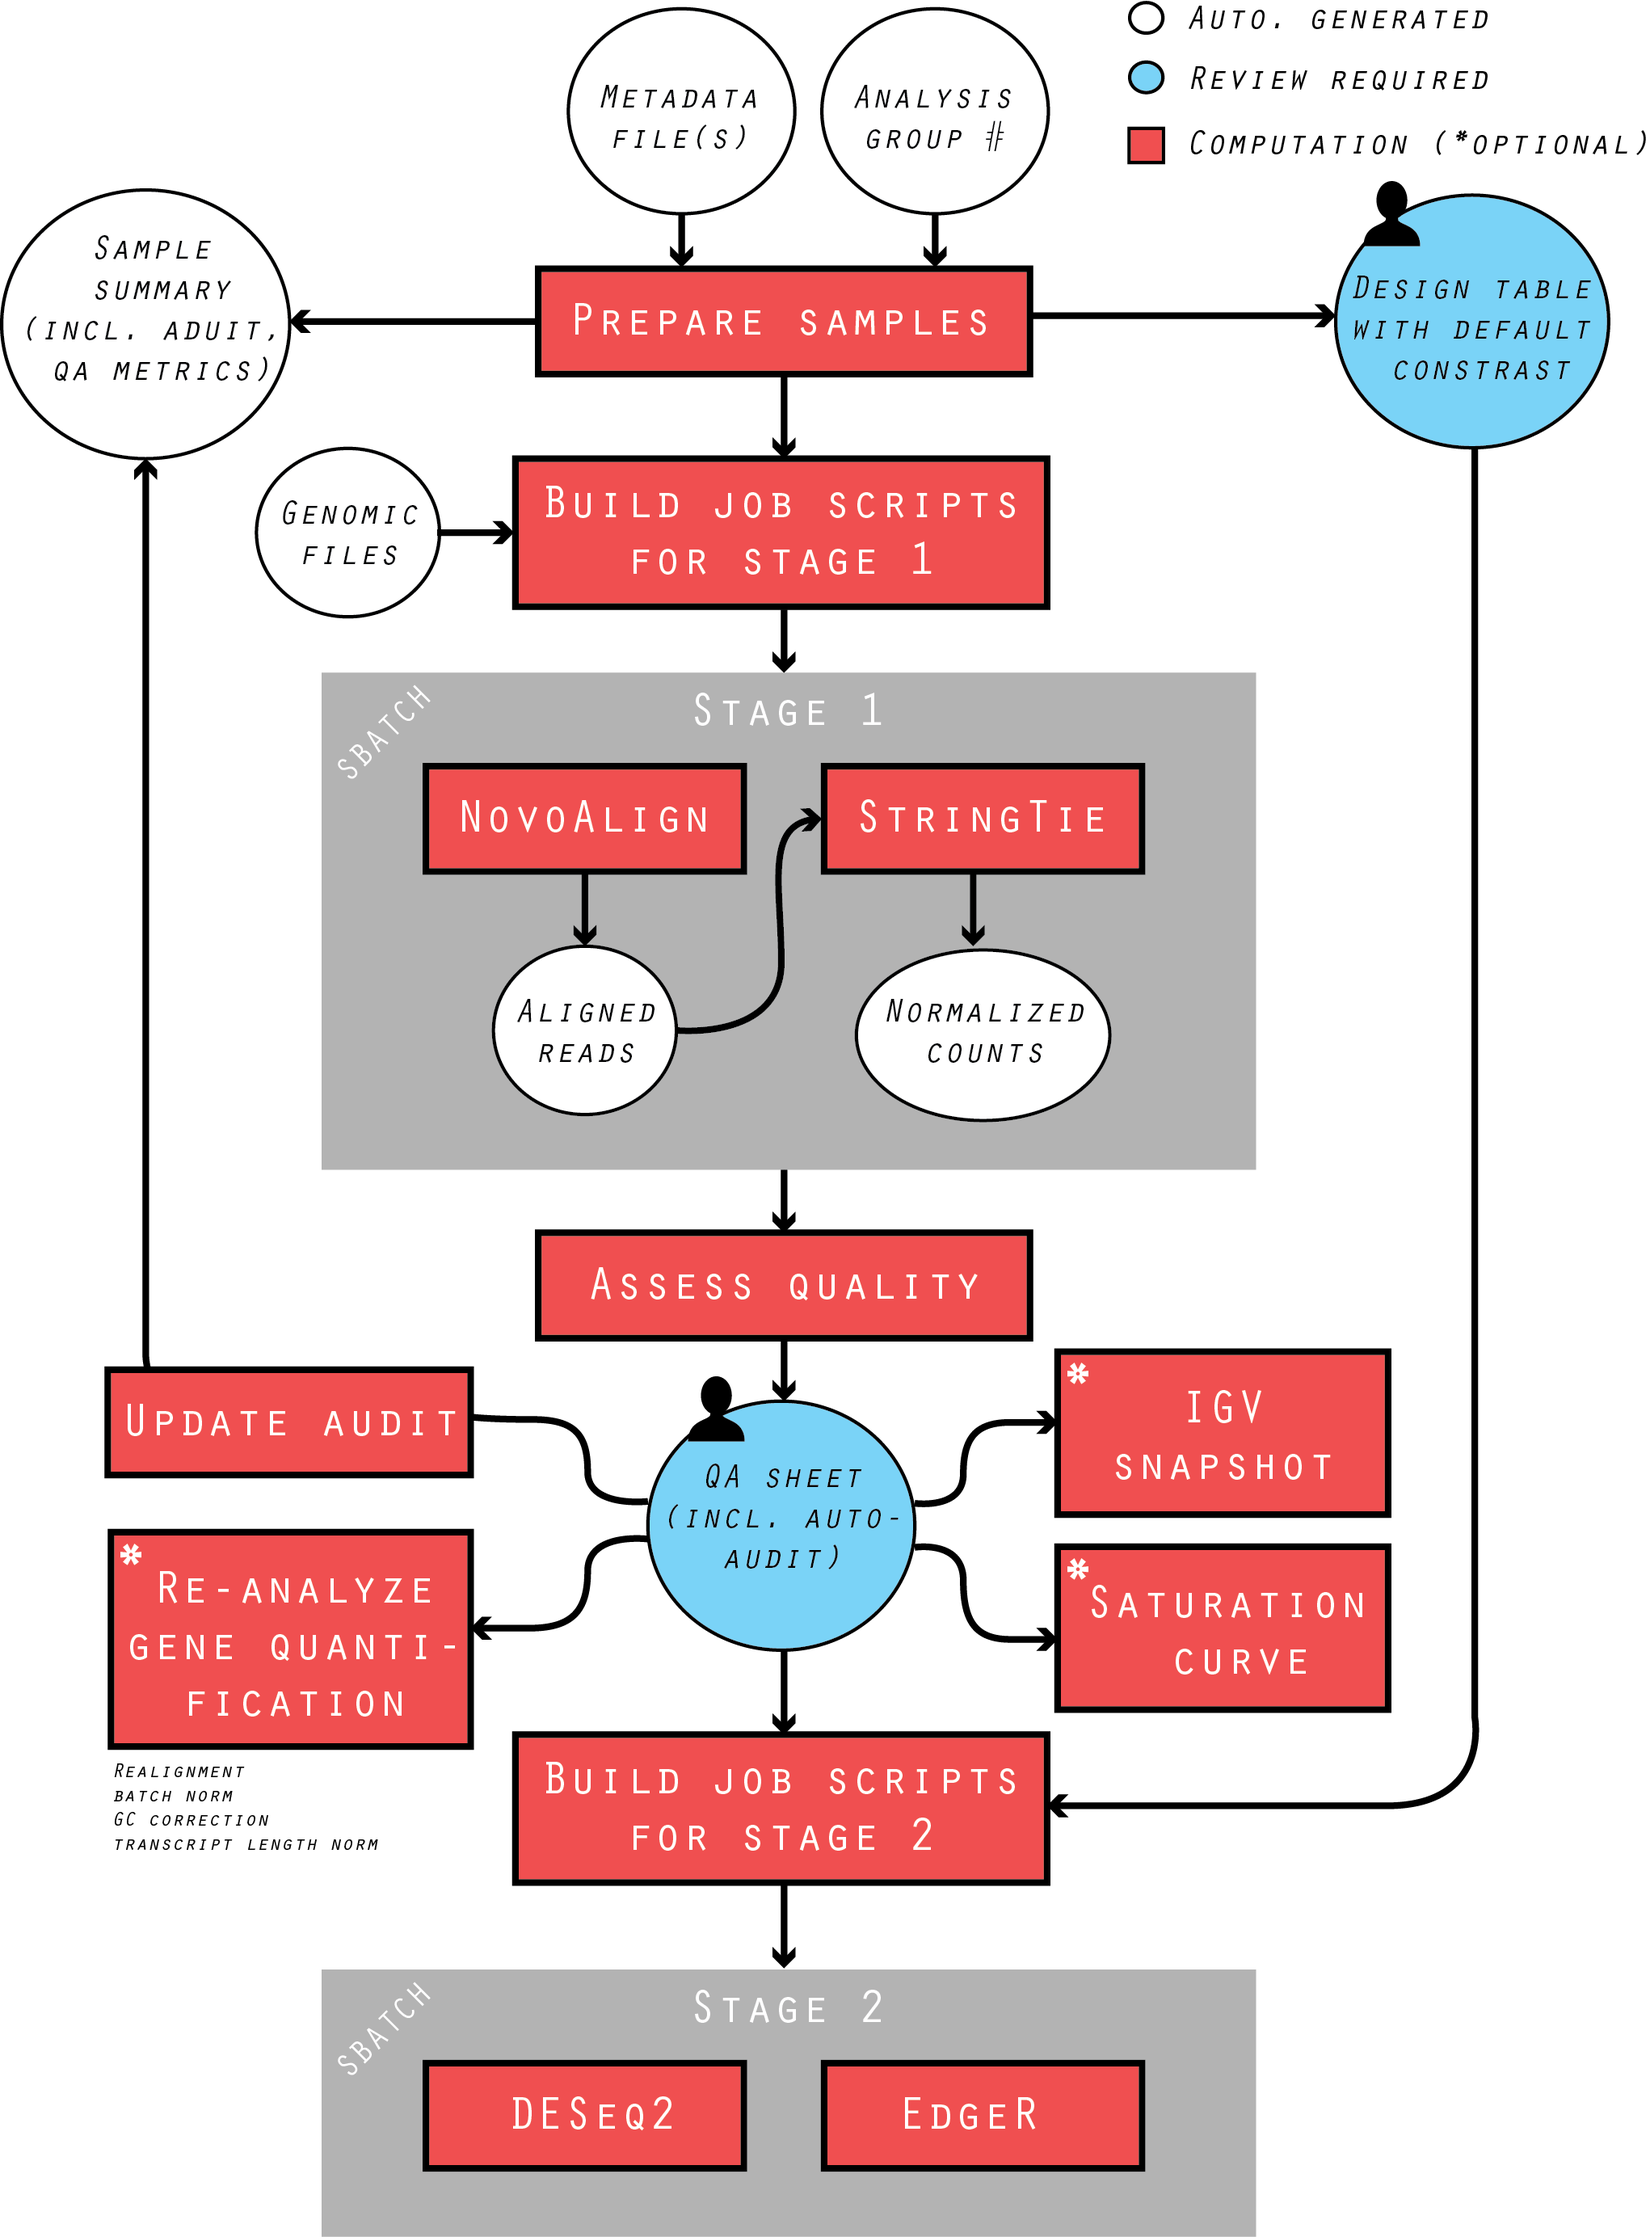
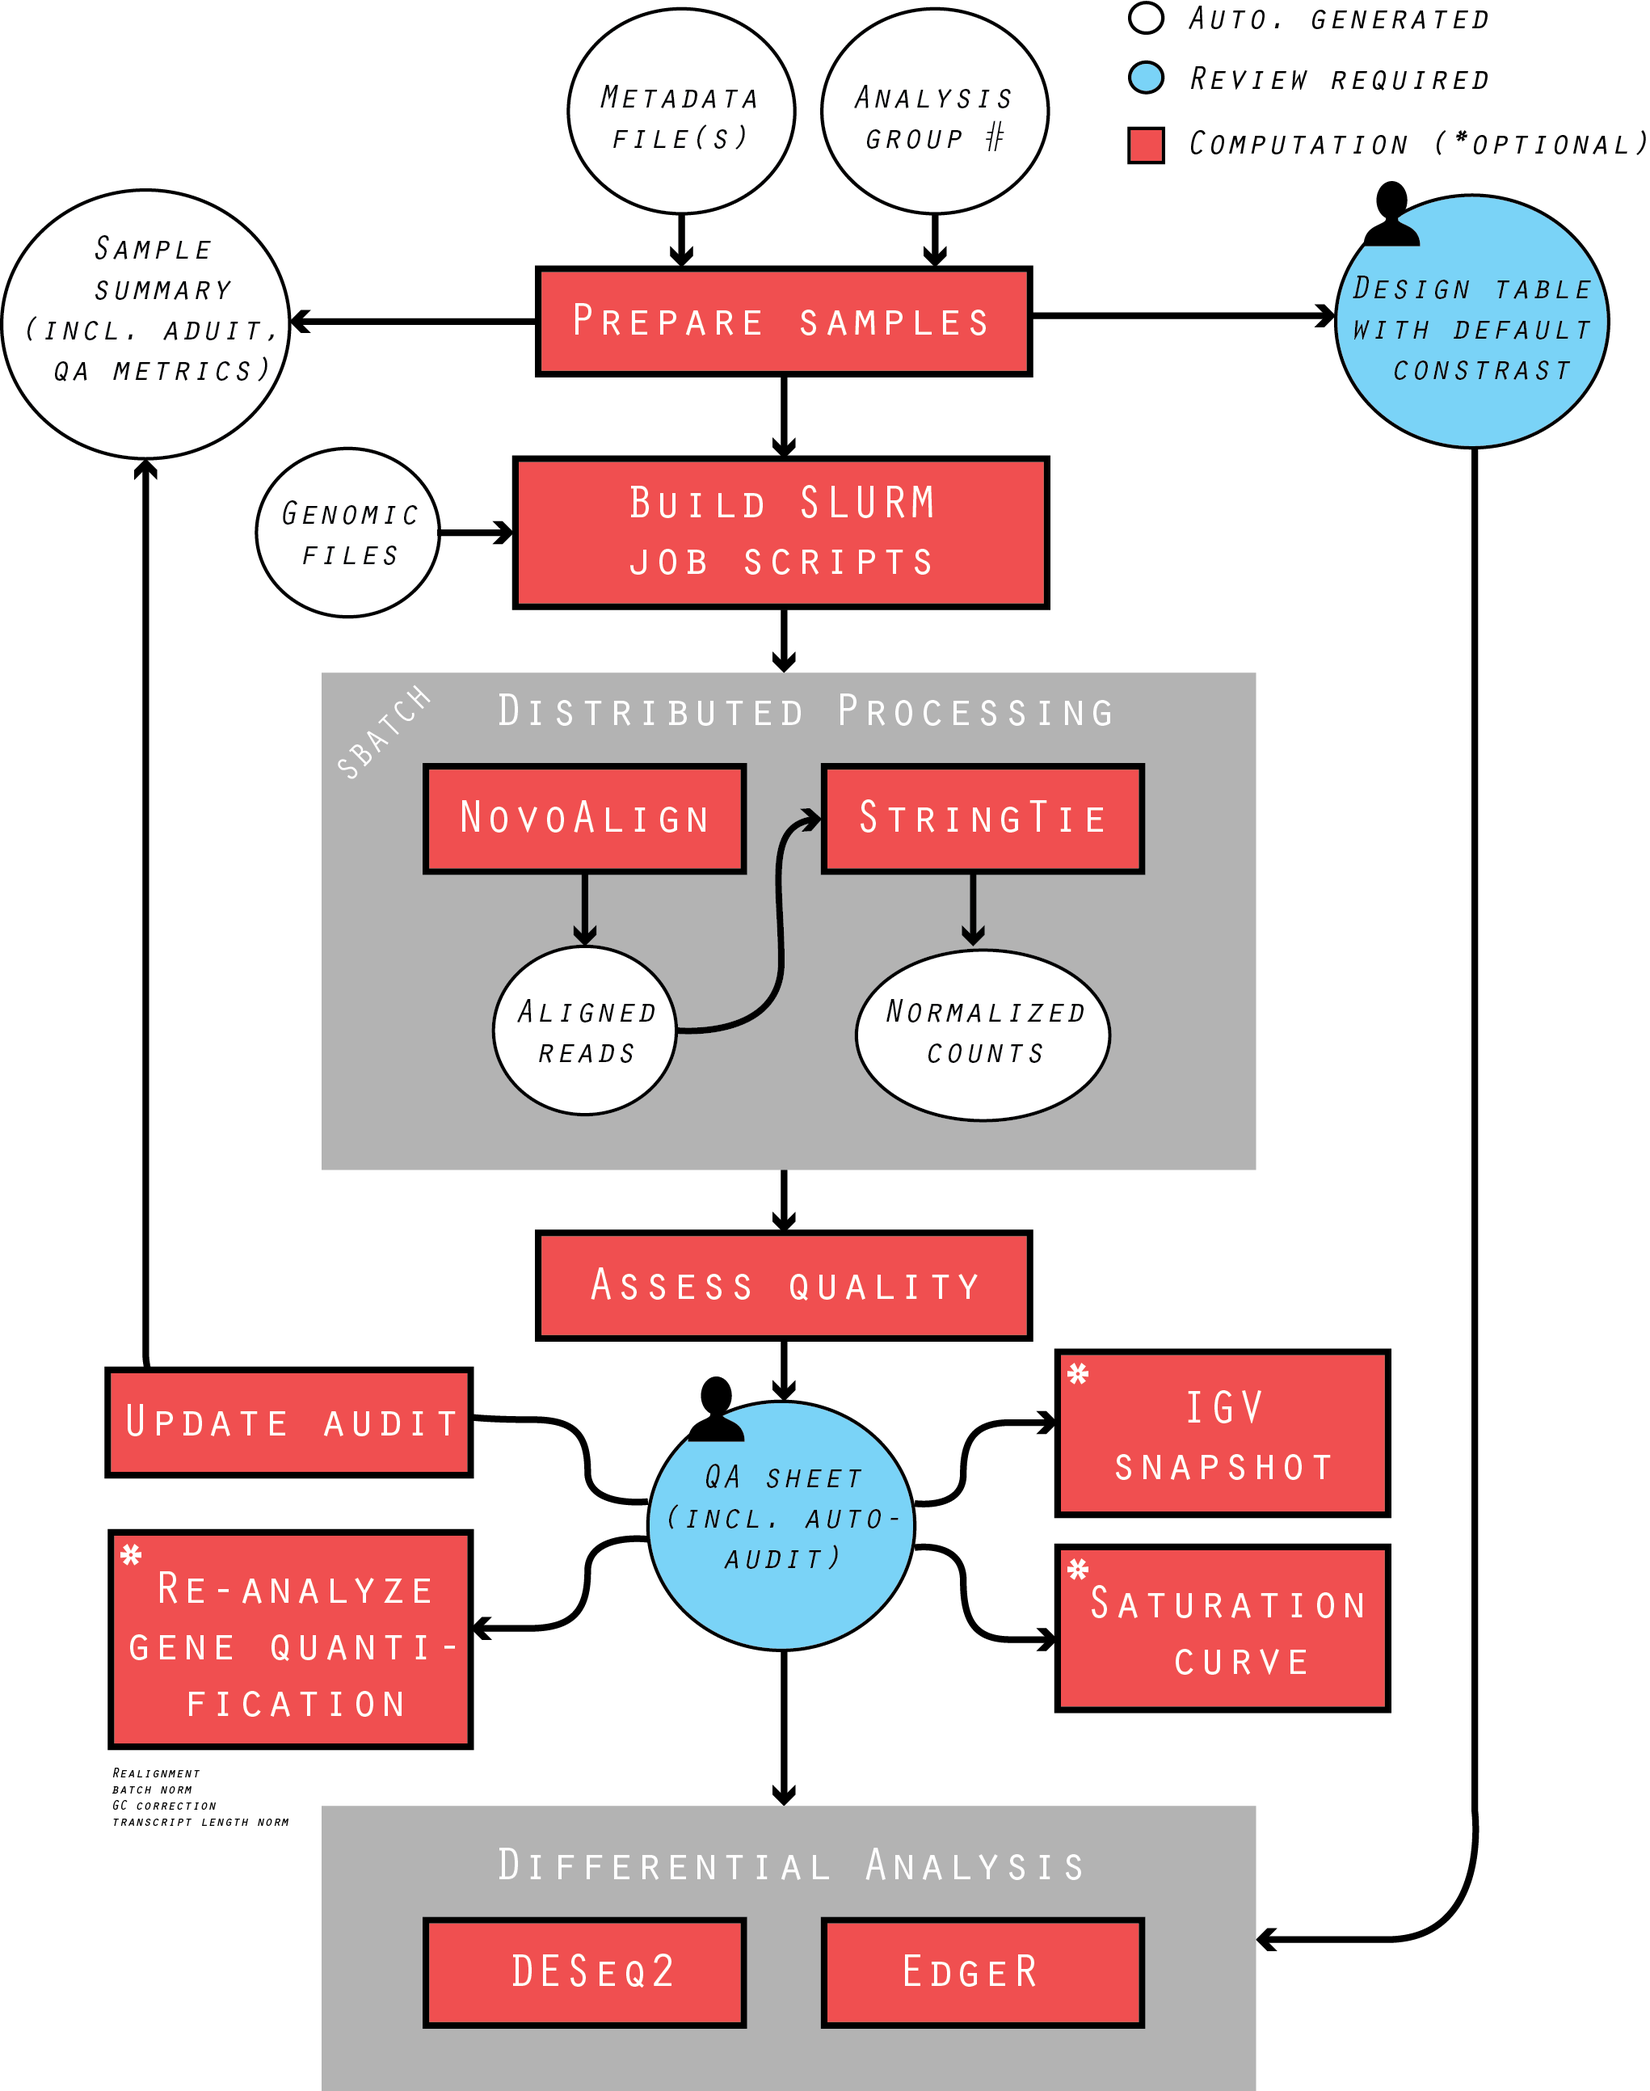
updated pipeline workflow

Changed region(s): [[0.0, 0.0, 0.9873, 0.9586], [0.8639, 0.8659, 0.8947, 0.9277]]

diff --git a/tools/build_reads_processing.py b/tools/build_reads_processing.py
@@ -39,8 +39,8 @@ def build_header(samples_filepath, group, email=None):
 	lookup_filepath = prepare_lookup_file(samples_valid, group)
 	## write job script
 	job = '#!/bin/bash\n#SBATCH -N 1\n#SBATCH --cpus-per-task=8\n#SBATCH --mem=24G\n'
-	job	+= '#SBATCH --array=1-%d%%32\n' % n_lines
-	job += '#SBATCH -D ./\n#SBATCH -o log/stage1_%A_%a.out\n#SBATCH -e log/stage1_%A_%a.err\n#SBATCH -J stage1\n'
+	job	+= '#SBATCH --array=1-%d%%%d\n' % (n_lines, min(n_lines,32))
+	job += '#SBATCH -D ./\n#SBATCH -o log/readsproc_%A_%a.out\n#SBATCH -e log/readsproc_%A_%a.err\n#SBATCH -J readsproc\n'
 	if email is not None:
 		job += '#SBATCH --mail-type=END,FAIL\n#SBATCH --mail-user=%s\n' % email
 	job += '\nml novoalign/3.07.00\nml samtools/1.6\nml stringtie/1.3.3b\nml R/3.2.1\n'
@@ -93,21 +93,21 @@ def prepare_lookup_file(samples, group):
 	Prepare lookup file for sbatch runs
 	"""
 	## create lookup data for each sample
-	lookup_stage1, lookup_expr = '', ''
+	lookup_readsproc, lookup_expr = '', ''
 	for i,row in samples.iterrows(): 
 		sample = row['GENOTYPE'] +'-'+ row['SAMPLE']
 		expr_file = 'expression/stringtie/'+ sample +'/stringtie_out.gtf'
-		lookup_stage1 += '%s\t%s\n' % (sample, row['FILE'])
+		lookup_readsproc += '%s\t%s\n' % (sample, row['FILE'])
 		lookup_expr += '%s\t%s\n' % (sample, expr_file)
 	## create laste line 
-	lookup_stage1 += 'expression/stringtie_count_matrix/count_matrix.group_%s.csv\texpression/stringtie_count_matrix/normalized_count_matrix.group_%s.csv\n' % (group, group)
+	lookup_readsproc += 'expression/stringtie_count_matrix/count_matrix.group_%s.csv\texpression/stringtie_count_matrix/normalized_count_matrix.group_%s.csv\n' % (group, group)
 	## write file
 	lookup_filepath_prefix = 'job_scripts/lookup_files/group_'+ group
-	lookup_stage1_filepath = lookup_filepath_prefix +'.stage1.txt'
+	lookup_readsproc_filepath = lookup_filepath_prefix +'.readsproc.txt'
 	lookup_expr_filepath = lookup_filepath_prefix +'.expr.txt'
-	write_file(lookup_stage1, lookup_stage1_filepath)
+	write_file(lookup_readsproc, lookup_readsproc_filepath)
 	write_file(lookup_expr, lookup_expr_filepath)
-	return lookup_stage1_filepath
+	return lookup_readsproc_filepath
 
 
 def write_file(jobs, filepath):

diff --git a/README.md b/README.md
@@ -39,16 +39,25 @@ R packages:
 	mkdir -p {alignment/{novoalign},expression/{stringtie,stringtie_count_matrix},diffexpr/{deseq2,edger},job_scripts/{lookup_files},log,reports,sequence}
 	```
 
-3. **[Optional]** Install Python packages, if not available.
+3. Install Python packages, if not available.
 	1. Download and install [pip](https://pip.pypa.io/en/stable/installing/#installing-with-get-pip-py).
-	2. Install `pandas`, `pysam`, `yaml`, `openpyxl` and `xlrd` as user (the former two are available on HTCF).
+	2. Install `pandas`, `pysam`, `pyyaml`, `openpyxl` and `xlrd` as user (the former two are available on HTCF).
 
 	```
 	pip install --user <package_name>
 	```
 
+4. Install R packages in R interactive session, if not available.
 
-4. **[Optional]** Generate and configure the IGV genome file of the species of interest for automated IGV snapshot. 
+	```R
+	> source("https://bioconductor.org/biocLite.R")
+	> biocLite("DESeq2")
+	> biocLite("edgeR")
+	> biocLite("NOISeq")
+	```
+
+
+5. **[Optional]** Generate and configure the IGV genome file of the species of interest for automated IGV snapshot. 
 	1. On your local computer, make a directory `$HOME/igv/<genome>`, and put in genome sequence (`.fasta`) and gene annotation (`.gtf/gff`).
 	2. Open IGV app, go to Genomes > Create .genome File, load the files as instructed, and save output at `$HOME/igv/genomes/`.
 	3. Copy your locally created genome file and `user-defined-genomes.txt` file at `$HOME/igv/genomes/` to the server directory `$HOME/igv/genomes/`. 
@@ -58,13 +67,6 @@ R packages:
 	```
 	DEFINE_GENOME_INPUT_DIRECTORY_KEY=<your_cluster_home_dir>/igv/<genome>
 	DEFAULT_GENOME_KEY=<genome>
-	```
-
-5. **[Optional]** Install NOISeq package from Bioconductor, if not available.
-
-	```
-	source("https://bioconductor.org/biocLite.R")
-	biocLite("NOISeq")
 	```
 
 ### USAGE
@@ -86,20 +88,20 @@ R packages:
 	This module builds the SLURM job script from sample summary. Each job requires 8 CPUs and 24GB of memory. It allows 32 jobs at maximum running in parallel, depending on the available resources (e.g. CPUs and memories). The user may opt to recive email notification when the run fails or completes.
 	
 	```
-	python tools/build_stage1.py -g <group_#> -l <gene_list> -i <genome>.nix \
-			-r <gene_annotation>.gtf -o job_scripts/<stage1_job>.sbatch \
+	python tools/build_reads_processing.py -g <group_#> -l <gene_list> -i <genome>.nix \
+			-r <gene_annotation>.gtf -o job_scripts/<readsproc_job>.sbatch \
 			--mail_user <email_address>
-	sbatch job_scripts/<stage1_job>.sbatch
+	sbatch job_scripts/<readsproc_job>.sbatch
 	```
 
 3. Quality assessment
 
 	1. Assess the quality of each sample. The QC metrics are the followings:
-		* Total read count
-		* Percentage of uniquely aligned reads
-		* Efficiency of gene perturbation
-		* Replicate concordance
-		* Efficiency of the replaced drug-marker gene. 
+		* TOTAL_READS: Total read count
+		* COMPLEXITY: Percentage of uniquely aligned reads
+		* MUT_FOW: Efficiency of gene perturbation
+		* MARKER_FOM: Efficiency of the replaced drug-marker gene
+		* COV_MED: Replicate concordance
 
 		The status (in bit form) summarizes the overall quality of each sample. The encoding of the corresponding metric is stored in `tools/qc_config.yaml`. `<markger_genes>` should be tab delimited, if more than one marker is used.
 	
